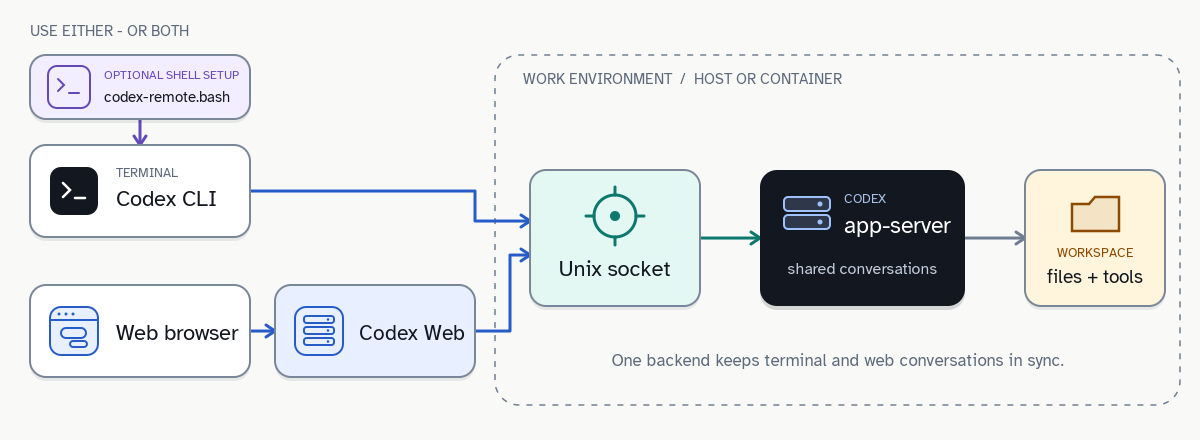
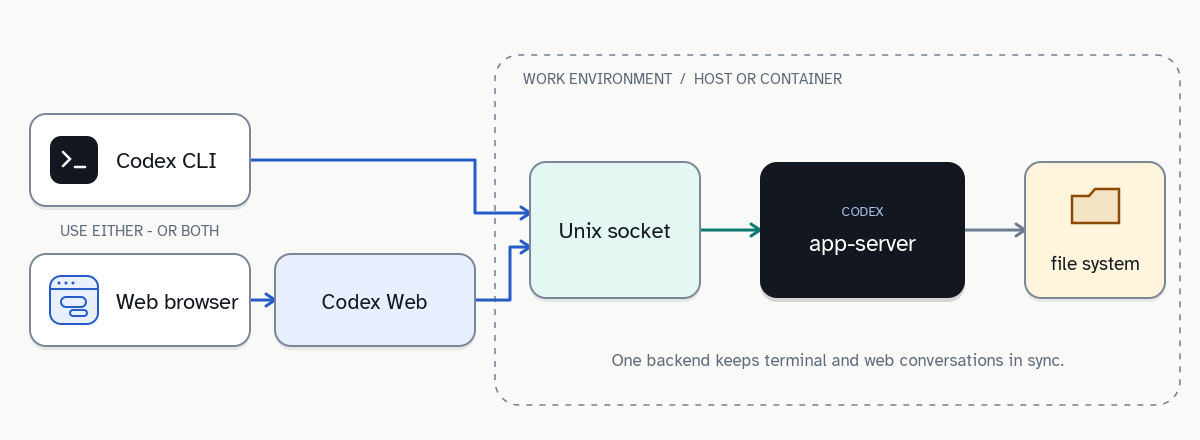
Refine architecture diagram

diff --git a/README.md b/README.md
@@ -3,7 +3,7 @@
 Use Codex from a terminal, this web UI, or both. Clients connected to the same
 app-server share conversations.
 
-![Optional shell setup routes Codex CLI to the same Unix socket used by the Codex Web sidecar; both share one app-server and workspace.](docs/architecture.png)
+![Codex CLI and Codex Web share an app-server and workspace through a Unix socket.](docs/architecture.png)
 
 ## 1. App server
 
